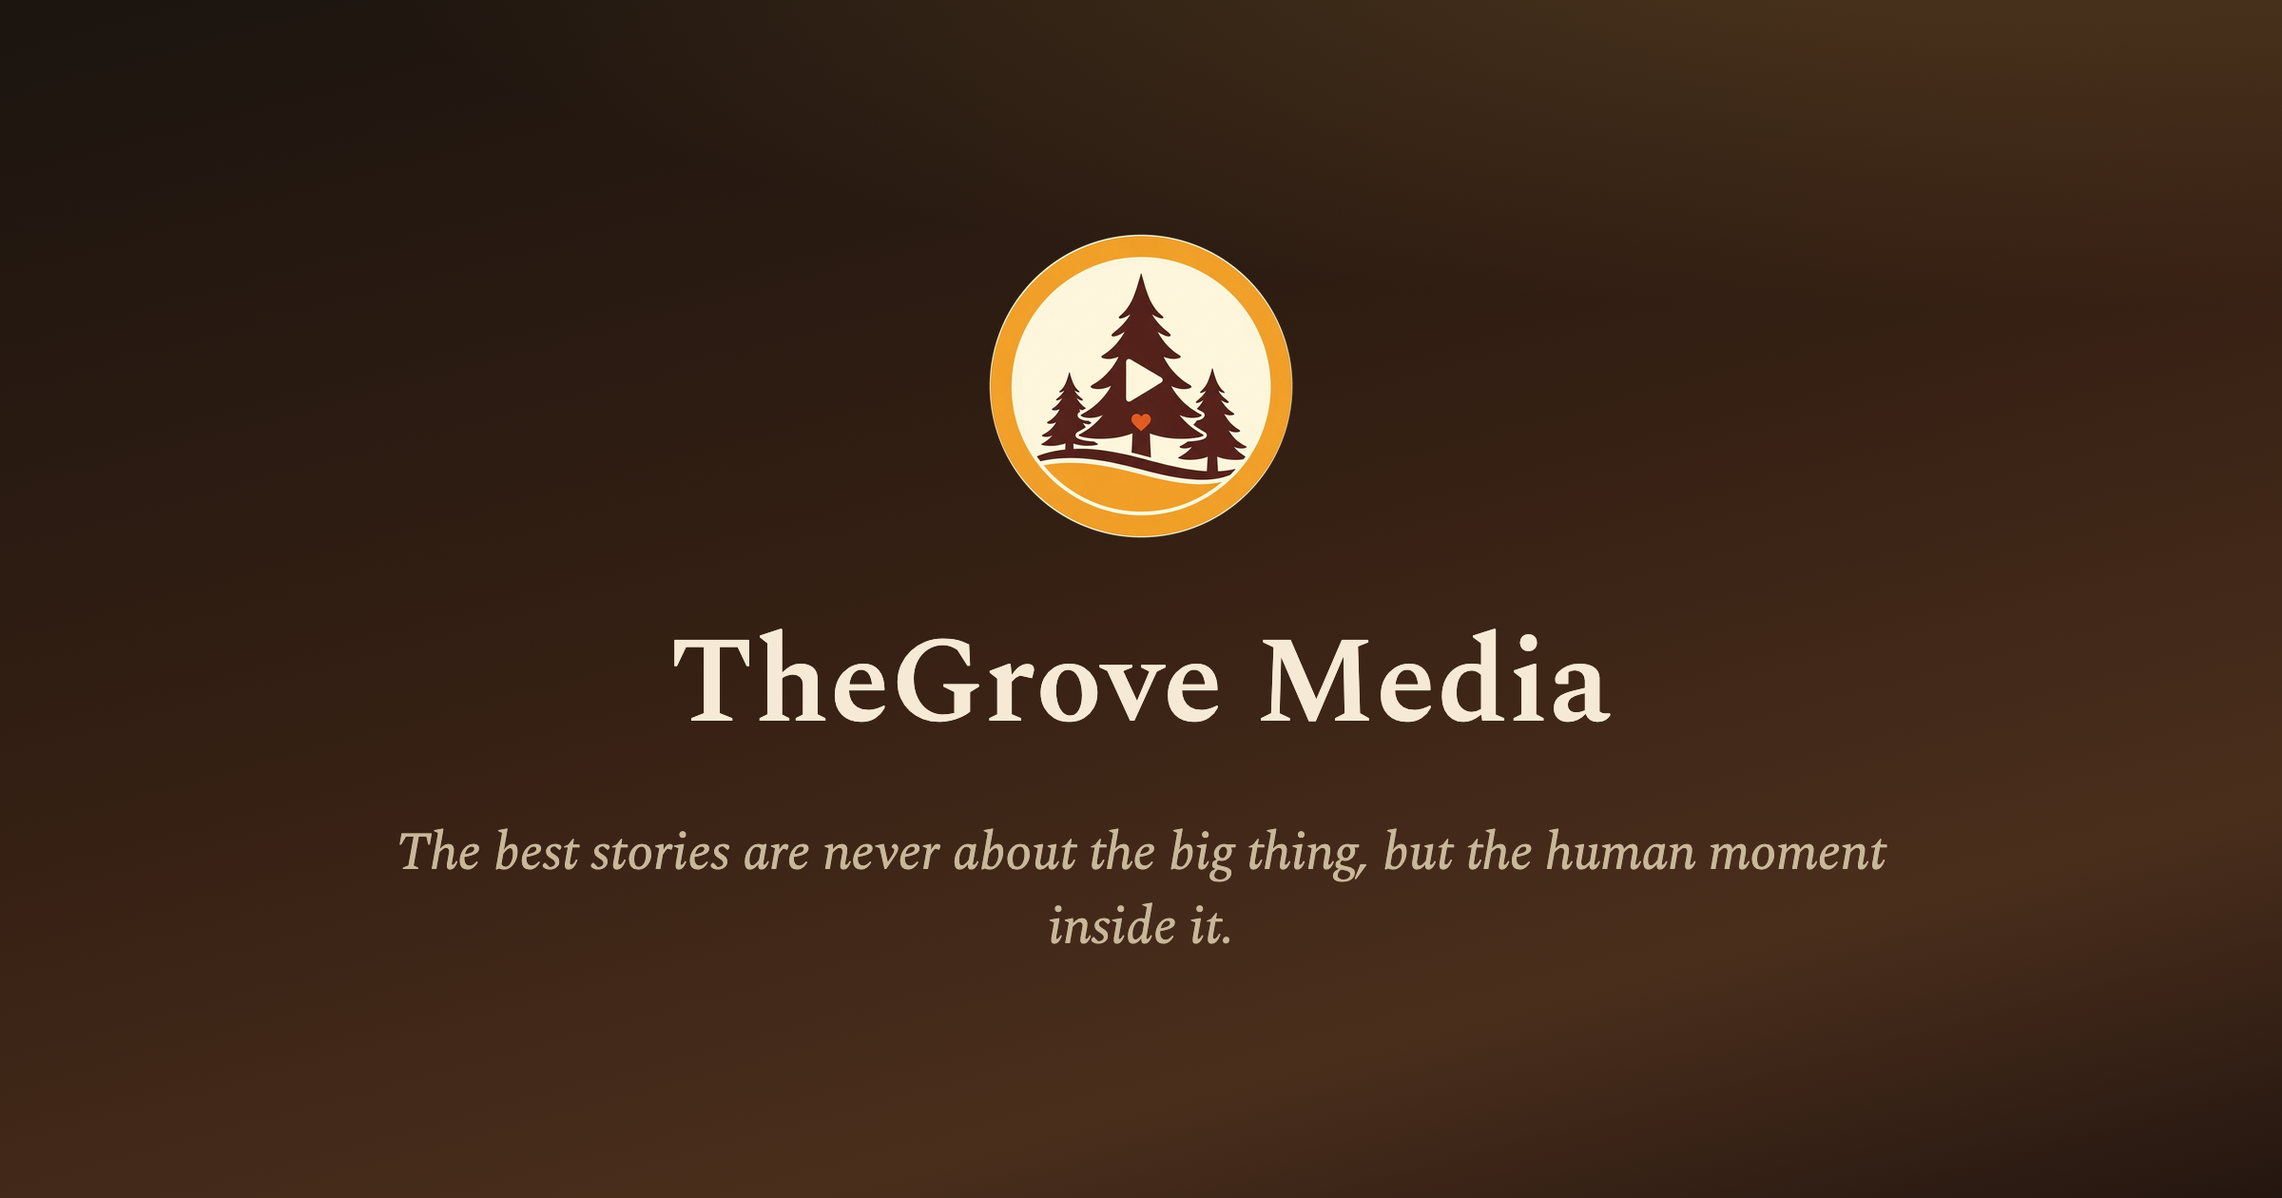
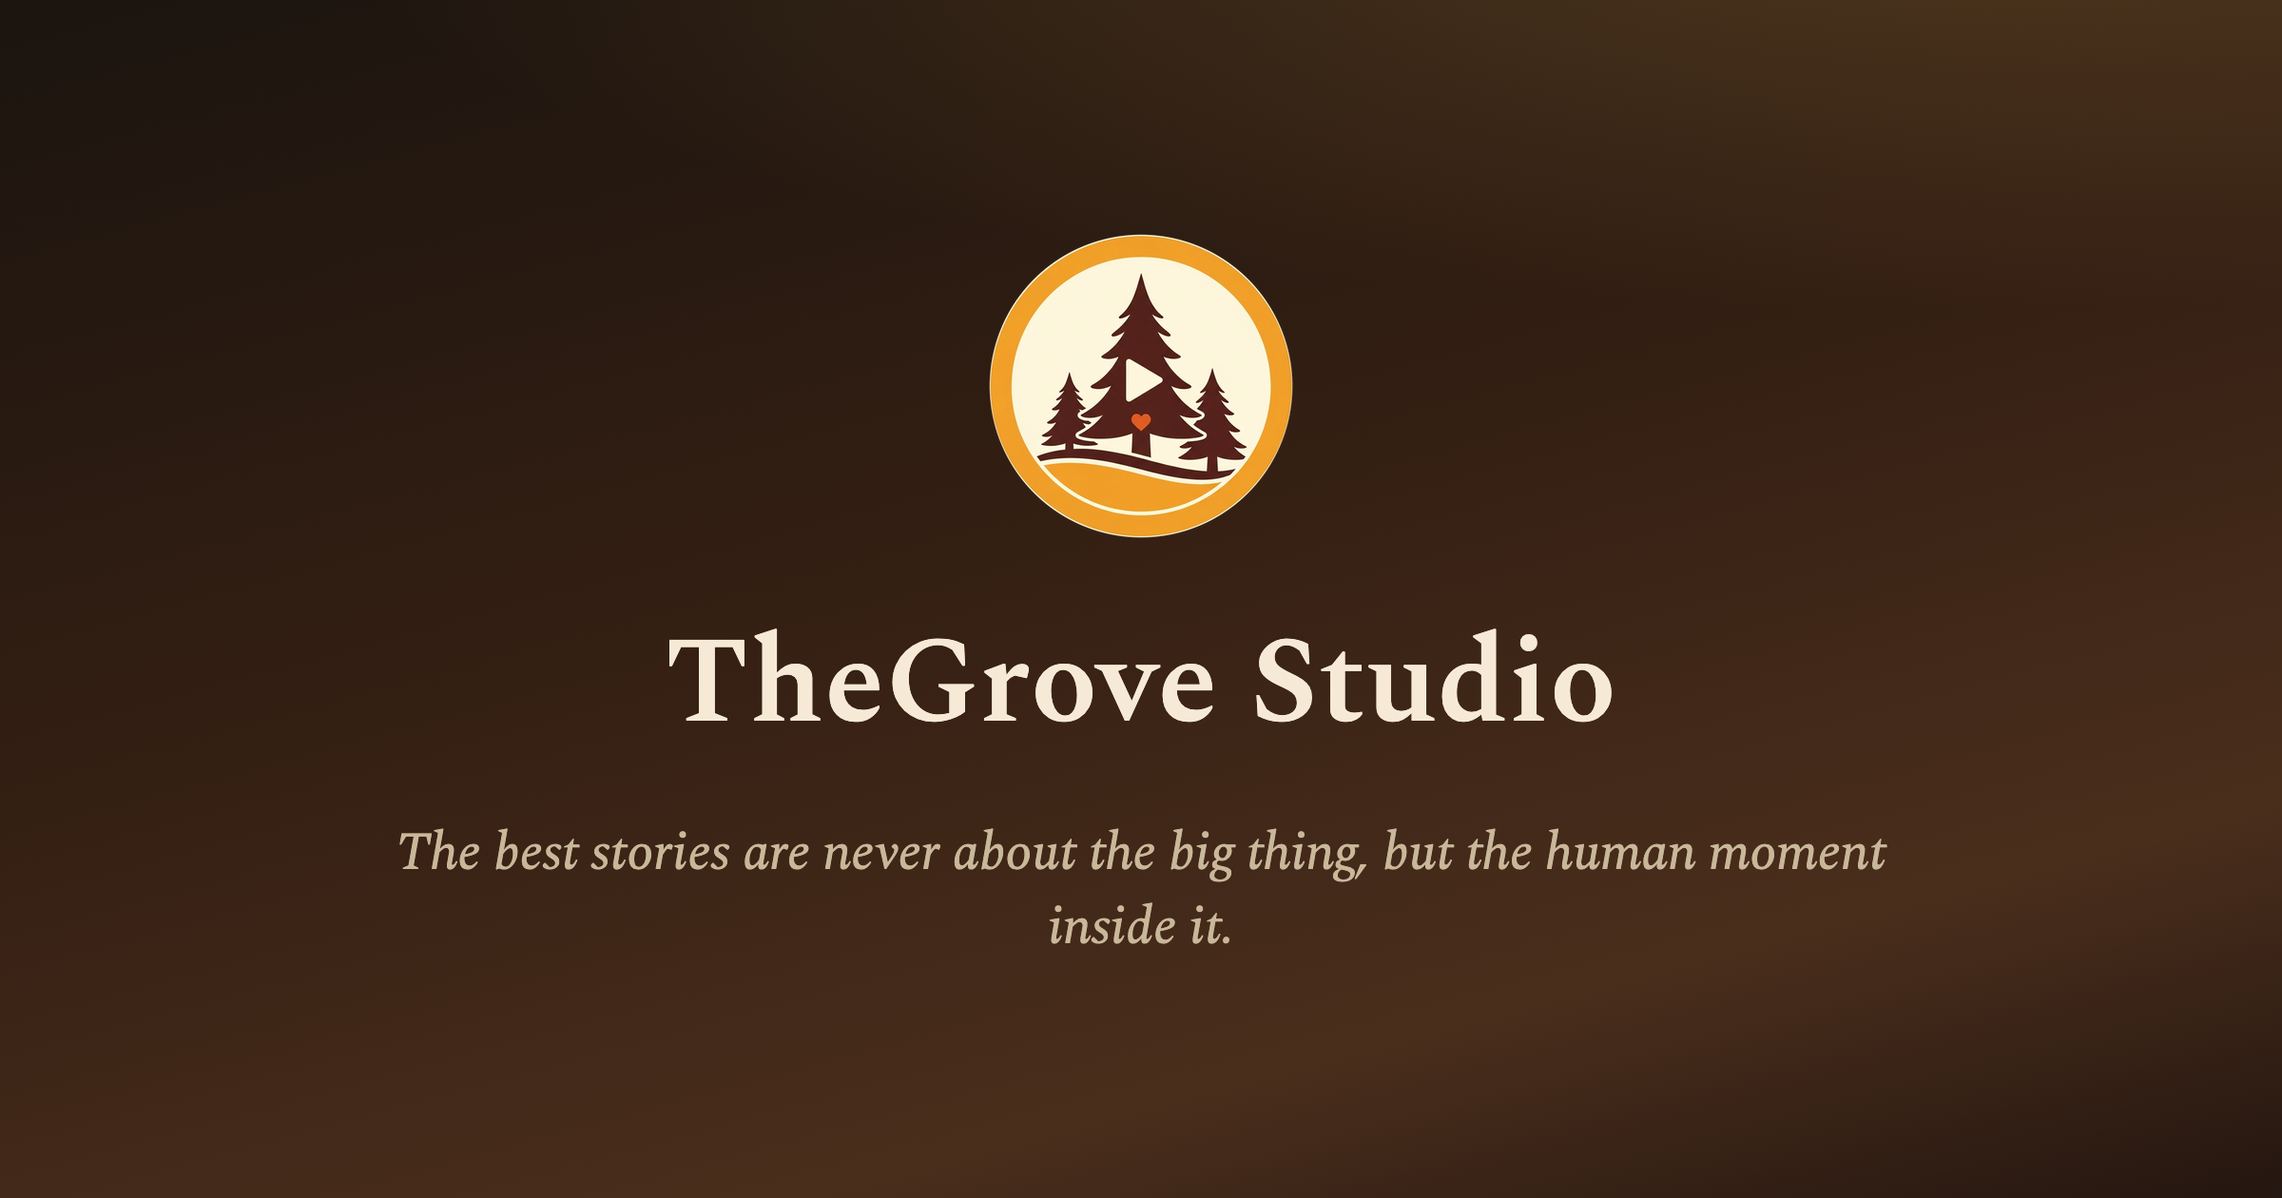
feat: rename displayed brand to TheGrove Studio

Changed region(s): [[0.2812, 0.5262, 0.625, 0.619], [0.6562, 0.5571, 0.7188, 0.619]]

diff --git a/index.html b/index.html
@@ -8,18 +8,18 @@
 <html lang="en">
 <head>
 <meta charset="UTF-8">
-<title>TheGrove Media</title>
+<title>TheGrove Studio</title>
 <link rel="canonical" href="https://thegrove.media/">
-<meta name="description" content="TheGrove Media - Human in the Loop, The Quill, and The Little Feather.">
+<meta name="description" content="TheGrove Studio - The Quill, The Little Feather, and Human in the Loop.">
 <meta name="viewport" content="width=device-width, initial-scale=1">
-<meta property="og:title" content="TheGrove Media">
-<meta property="og:description" content="TheGrove Media - Human in the Loop, The Quill, and The Little Feather.">
+<meta property="og:title" content="TheGrove Studio">
+<meta property="og:description" content="TheGrove Studio - The Quill, The Little Feather, and Human in the Loop.">
 <meta property="og:image" content="https://thegrove.media/assets/og-image.png">
 <meta property="og:url" content="https://thegrove.media/">
 <meta property="og:type" content="website">
 <meta name="twitter:card" content="summary_large_image">
 <meta name="twitter:image" content="https://thegrove.media/assets/og-image.png">
[2 lines of base64/hex data omitted]
 <link rel="icon" type="image/png" href="assets/thegrove-media-badge.png">
 <link rel="preconnect" href="https://fonts.googleapis.com">
 <link rel="preconnect" href="https://fonts.gstatic.com" crossorigin>
@@ -33,8 +33,8 @@
 <div class="page">
   <header class="masthead">
     <div class="masthead-inner">
-      <img class="badge" src="assets/thegrove-media-badge.png" alt="TheGrove Media studio badge" width="84" height="84" loading="eager">
-      <h1 class="wordmark">TheGrove Media</h1>
+      <img class="badge" src="assets/thegrove-media-badge.png" alt="TheGrove Studio studio badge" width="84" height="84" loading="eager">
+      <h1 class="wordmark">TheGrove Studio</h1>
       <p class="studio-tagline">The best stories are never about the big thing, but the human moment inside it.</p>
       <nav class="masthead-nav" aria-label="Shows on this page">
         <a href="#the-quill">The Quill</a><span aria-hidden="true">&middot;</span><a href="#the-little-feather">The Little Feather</a><span aria-hidden="true">&middot;</span><a href="#human-in-the-loop">Human in the Loop</a><span aria-hidden="true">&middot;</span><a href="#about">About</a>
@@ -65,7 +65,7 @@
             <div class="chapter-main">
               <label for="disc-the-quill" class="opener">
                 <span class="mark-wrap" aria-hidden="true"><img class="mark" src="assets/marks/quill-circle.png" alt="" width="116" height="116" loading="lazy"></span>
-                <span class="eyebrow">Produced by TheGrove Media</span>
+                <span class="eyebrow">Produced by TheGrove Studio</span>
                 <span class="opener-text">
                   <span class="tile-name" role="heading" aria-level="2">The Quill</span>
                   <span class="tile-tagline">True Stories, Human-Written.</span>
@@ -111,7 +111,7 @@
             <div class="chapter-main">
               <label for="disc-the-little-feather" class="opener">
                 <span class="mark-wrap" aria-hidden="true"><img class="mark" src="assets/marks/tlf-asis.png" alt="" width="116" height="116" loading="lazy"></span>
-                <span class="eyebrow">Produced by TheGrove Media</span>
+                <span class="eyebrow">Produced by TheGrove Studio</span>
                 <span class="opener-text">
                   <span class="tile-name" role="heading" aria-level="2">The Little Feather</span>
                   <span class="tile-tagline">Kids Stories for Big Feelings</span>
@@ -156,7 +156,7 @@
             <div class="chapter-main">
               <label for="disc-human-in-the-loop" class="opener">
                 <span class="mark-wrap" aria-hidden="true"><img class="mark" src="assets/marks/hitl-circle.png" alt="" width="116" height="116" loading="lazy"></span>
-                <span class="eyebrow">Produced by TheGrove Media</span>
+                <span class="eyebrow">Produced by TheGrove Studio</span>
                 <span class="opener-text">
                   <span class="tile-name" role="heading" aria-level="2">Human in the Loop</span>
                   <span class="tile-tagline">Real people. Real tools. No retakes.</span>
@@ -208,10 +208,10 @@
     <section id="about" class="about-section">
       <div class="about-card">
         <div class="colophon small" aria-hidden="true"><span class="rule"></span><span class="dot"></span><span class="rule"></span></div>
-        <p class="wordmark small">TheGrove Media</p>
-        <h2 class="sr-only">About TheGrove Media</h2>
+        <p class="wordmark small">TheGrove Studio</p>
+        <h2 class="sr-only">About TheGrove Studio</h2>
         <img class="portrait" src="assets/chris-shanku.webp" alt="Portrait of Chris Shanku" width="128" height="128" loading="lazy">
-        <p class="about-copy">I&#x27;m Chris Shanku. I build real systems for a living and tell true stories on stage - I won a Moth StorySLAM with <a href="https://youtu.be/2Lj3Ujrk2Ys" target="_blank" rel="noopener noreferrer">this one</a>. Technology is best when it enables human connection - period. TheGrove Media is the studio behind Human in the Loop, The Quill, and The Little Feather, a project of TheGrove AI, LLC. More about me at <a href="https://shanku.net" target="_blank" rel="noopener noreferrer">shanku.net</a>, more about the company at <a href="https://thegrove.llc" target="_blank" rel="noopener noreferrer">thegrove.llc</a>.</p>
+        <p class="about-copy">I&#x27;m Chris Shanku. I build real systems for a living and tell true stories on stage - I won a Moth StorySLAM with <a href="https://youtu.be/2Lj3Ujrk2Ys" target="_blank" rel="noopener noreferrer">this one</a>. Technology is best when it enables human connection - period. TheGrove Studio is the home of Human in the Loop, The Quill, and The Little Feather, a project of TheGrove AI, LLC. More about me at <a href="https://shanku.net" target="_blank" rel="noopener noreferrer">shanku.net</a>, more about the company at <a href="https://thegrove.llc" target="_blank" rel="noopener noreferrer">thegrove.llc</a>.</p>
       </div>
     </section>
   </main>

diff --git a/css/site.css b/css/site.css
@@ -1,5 +1,5 @@
 /* =====================================================================
-   TheGrove Media - CHOSEN DIRECTION
+   TheGrove Studio - CHOSEN DIRECTION
    Direction A's editorial bands (tablet/desktop, >=768px) blended with
    Direction C's home-screen tiles (mobile, <768px) as ONE responsive
    page, ONE markup tree. No JavaScript anywhere on this page - the

diff --git a/scripts/og_image.html b/scripts/og_image.html
@@ -16,6 +16,6 @@
 </style></head>
 <body>
   <img src="../assets/thegrove-media-badge.png" alt="">
-  <h1>TheGrove Media</h1>
+  <h1>TheGrove Studio</h1>
   <p>The best stories are never about the big thing, but the human moment inside it.</p>
 </body></html>

diff --git a/scripts/tests/test_render_show.py b/scripts/tests/test_render_show.py
@@ -11,6 +11,7 @@ ICONS = json.loads((ROOT / "content" / "icons.json").read_text())
 QUILL = next(s for s in CHANNELS["shows"] if s["id"] == "the-quill")
 TLF = next(s for s in CHANNELS["shows"] if s["id"] == "the-little-feather")
 HITL = next(s for s in CHANNELS["shows"] if s["id"] == "human-in-the-loop")
+STUDIO_NAME = CHANNELS["studio"]["name"]
 
 
 class TestRenderIconSprite(unittest.TestCase):
@@ -22,7 +23,7 @@ class TestRenderIconSprite(unittest.TestCase):
 
 class TestRenderShow(unittest.TestCase):
     def test_section_id_and_field_accent_custom_properties(self):
-        out = render_show(QUILL, ICONS)
+        out = render_show(QUILL, ICONS, STUDIO_NAME)
         self.assertIn('id="the-quill"', out)
         self.assertIn("--field:#251E19", out)
         self.assertIn("--accent:#C2643A", out)
@@ -33,30 +34,30 @@ class TestRenderShow(unittest.TestCase):
         # "Verified Aug 4" line must not appear in output, at any breakpoint,
         # even though channels.json still carries the source/verified fields.
         for show in (QUILL, TLF, HITL):
-            out = render_show(show, ICONS)
+            out = render_show(show, ICONS, STUDIO_NAME)
             self.assertNotIn("Verified", out)
             self.assertNotIn("cadence-verified", out)
 
     def test_cadence_display_text_still_renders(self):
-        out = render_show(QUILL, ICONS)
+        out = render_show(QUILL, ICONS, STUDIO_NAME)
         self.assertIn("New stories every Sunday, Tuesday, and Friday.", out)
         self.assertIn("A new My Lost Chapters every month.", out)
 
     def test_extra_line_renders_only_when_present(self):
-        self.assertIn("My Lost Chapters is the exception", render_show(QUILL, ICONS))
-        self.assertNotIn("extra-line", render_show(TLF, ICONS))
+        self.assertIn("My Lost Chapters is the exception", render_show(QUILL, ICONS, STUDIO_NAME))
+        self.assertNotIn("extra-line", render_show(TLF, ICONS, STUDIO_NAME))
 
     def test_cohost_renders_only_for_hitl_with_buildwithsash_link(self):
-        hitl_out = render_show(HITL, ICONS)
+        hitl_out = render_show(HITL, ICONS, STUDIO_NAME)
         self.assertIn("cohost-credit", hitl_out)
         self.assertIn('href="https://buildwithsash.com"', hitl_out)
         self.assertNotIn("linkedin.com/in/shasmo", hitl_out)
-        self.assertNotIn("cohost-credit", render_show(QUILL, ICONS))
+        self.assertNotIn("cohost-credit", render_show(QUILL, ICONS, STUDIO_NAME))
 
     def test_lead_lines_render_only_for_hitl(self):
-        hitl_out = render_show(HITL, ICONS)
+        hitl_out = render_show(HITL, ICONS, STUDIO_NAME)
         self.assertIn("Two ex-Microsoft builders.", hitl_out)
-        self.assertNotIn("lead-lines", render_show(QUILL, ICONS))
+        self.assertNotIn("lead-lines", render_show(QUILL, ICONS, STUDIO_NAME))
 
     def test_listen_block_omitted_when_empty(self):
         # None of the three currently has an empty listen[], but the
@@ -64,24 +65,24 @@ class TestRenderShow(unittest.TestCase):
         # when listen is empty. Exercise it directly against the function.
         fake_show = dict(QUILL)
         fake_show["listen"] = []
-        out = render_show(fake_show, ICONS)
+        out = render_show(fake_show, ICONS, STUDIO_NAME)
         self.assertNotIn(">Listen<", out)
 
     def test_amazon_music_and_tunein_get_generic_icon_labels(self):
-        out = render_show(HITL, ICONS)
+        out = render_show(HITL, ICONS, STUDIO_NAME)
         self.assertIn("generic placeholder icon, not an official logo", out)
         self.assertIn("TuneIn (generic icon)", out)
         self.assertIn("Amazon Music (generic icon)", out)
 
     def test_watch_renders_as_text_links_not_icons(self):
-        out = render_show(HITL, ICONS)
+        out = render_show(HITL, ICONS, STUDIO_NAME)
         self.assertIn('<a href="https://www.youtube.com/@hitlstream"', out)
         self.assertIn("Episode Takeaways", out)
 
     def test_linkedin_is_not_labelled_a_placeholder(self):
         # LinkedIn carries a provenance `note` but IS an official mark. Keying
         # the placeholder disclosure off `note` mislabelled it. FOLD-1/FOLD-5.
-        out = render_show(HITL, ICONS)
+        out = render_show(HITL, ICONS, STUDIO_NAME)
         self.assertIn('title="LinkedIn"', out)
         self.assertNotIn("LinkedIn (generic icon)", out)
 
@@ -89,14 +90,14 @@ class TestRenderShow(unittest.TestCase):
         sprite = render_icon_sprite(ICONS)
         import re as _re
         for show in (QUILL, TLF, HITL):
-            for ref in _re.findall(r'<use href="#(icon-[a-z0-9-]+)">', render_show(show, ICONS)):
+            for ref in _re.findall(r'<use href="#(icon-[a-z0-9-]+)">', render_show(show, ICONS, STUDIO_NAME)):
                 self.assertIn(f'id="{ref}"', sprite, f"{ref} has no <symbol> in the sprite")
 
     def test_malformed_color_fails_loud(self):
         bad = dict(QUILL)
         bad["accent"] = '#fff" onload="alert(1)'
         with self.assertRaises(ValueError):
-            render_show(bad, ICONS)
+            render_show(bad, ICONS, STUDIO_NAME)
 
 
 if __name__ == "__main__":

diff --git a/scripts/render.py b/scripts/render.py
@@ -41,7 +41,15 @@ def build_hash():
     return h.hexdigest()
 
 
-ROLE_LABELS = {"produced": "Produced by TheGrove Media"}
+def role_label(role, studio_name):
+    """Build the eyebrow label for a show's role. Data-driven off `studio_name`
+    so a studio rename is a one-line content edit, not a code edit. Only the
+    "produced" role exists today - an unknown role must still raise loudly
+    rather than emit a blank eyebrow.
+    """
+    if role == "produced":
+        return f"Produced by {studio_name}"
+    raise ValueError(f"unknown show role {role!r}")
 
 
 def esc(s):
@@ -141,7 +149,7 @@ def render_latest_block(latest):
     return '<p class="latest-empty">New episodes will appear here.</p>'
 
 
-def render_show(show, icons):
+def render_show(show, icons, studio_name):
     validate_show(show)
     style = (
         f'--field:{show["field"]}; --ink:{show["ink"]}; --accent:{show["accent"]}; '
@@ -149,7 +157,7 @@ def render_show(show, icons):
         f'--display:\'{show["display"]}\',serif; --body-font:\'{show["body"]}\',sans-serif;'
     )
     show_id = esc(show["id"])
-    eyebrow = ROLE_LABELS[show["role"]]
+    eyebrow = role_label(show["role"], studio_name)
 
     lead_html = ""
     if show.get("lead"):
@@ -232,12 +240,12 @@ PAGE_HEAD = '''<!doctype html>
 <html lang="en">
 <head>
 <meta charset="UTF-8">
-<title>TheGrove Media</title>
+<title>{studio_name}</title>
 <link rel="canonical" href="https://thegrove.media/">
-<meta name="description" content="TheGrove Media - Human in the Loop, The Quill, and The Little Feather.">
+<meta name="description" content="{studio_name} - {show_list}.">
 <meta name="viewport" content="width=device-width, initial-scale=1">
-<meta property="og:title" content="TheGrove Media">
-<meta property="og:description" content="TheGrove Media - Human in the Loop, The Quill, and The Little Feather.">
+<meta property="og:title" content="{studio_name}">
+<meta property="og:description" content="{studio_name} - {show_list}.">
 <meta property="og:image" content="https://thegrove.media/assets/og-image.png">
 <meta property="og:url" content="https://thegrove.media/">
 <meta property="og:type" content="website">
@@ -260,6 +268,16 @@ PAGE_TAIL = '''
 '''
 
 
+def join_names(names):
+    """Oxford-comma join for the meta-description show list, so a fourth show
+    added to channels.json is reflected here with no code change."""
+    if len(names) == 1:
+        return names[0]
+    if len(names) == 2:
+        return f"{names[0]} and {names[1]}"
+    return ", ".join(names[:-1]) + f", and {names[-1]}"
+
+
 def render_masthead(studio, shows):
     nav_links = "".join(
         f'<a href="#{s["id"]}">{esc(s["name"])}</a><span aria-hidden="true">&middot;</span>'
@@ -267,7 +285,7 @@ def render_masthead(studio, shows):
     ) + '<a href="#about">About</a>'
     return f'''  <header class="masthead">
     <div class="masthead-inner">
-      <img class="badge" src="{esc(studio["badge"])}" alt="TheGrove Media studio badge" width="84" height="84" loading="eager">
+      <img class="badge" src="{esc(studio["badge"])}" alt="{esc(studio["name"])} studio badge" width="84" height="84" loading="eager">
       <h1 class="wordmark">{esc(studio["name"])}</h1>
       <p class="studio-tagline">{esc(studio["tagline"])}</p>
       <nav class="masthead-nav" aria-label="Shows on this page">
@@ -304,8 +322,13 @@ def render_page(channels, icons):
     source_hash = build_hash()
     studio = channels["studio"]
     shows = sorted(channels["shows"], key=lambda s: s["order"])
+    show_list = join_names([s["name"] for s in shows])
 
-    parts = [PAGE_HEAD.format(source_hash=source_hash)]
+    parts = [PAGE_HEAD.format(
+        source_hash=source_hash,
+        studio_name=esc(studio["name"]),
+        show_list=esc(show_list),
+    )]
     parts.append(f'<a class="skip-link" href="#{shows[0]["id"]}">Skip to shows</a>')
     parts.append('<div class="page">')
     parts.append(render_masthead(studio, shows))
@@ -313,7 +336,7 @@ def render_page(channels, icons):
     parts.append(render_icon_sprite(icons))
     parts.append('    <div class="stack">')
     for show in shows:
-        parts.append(render_show(show, icons))
+        parts.append(render_show(show, icons, studio["name"]))
     parts.append('    </div>')
     parts.append(render_about(studio))
     parts.append('  </main>')

diff --git a/scripts/verify_render.py b/scripts/verify_render.py
@@ -82,7 +82,7 @@ def run_checks(base, remote, shot_dir):
             page.mouse.wheel(0, 20000)          # trigger loading="lazy" images
             page.wait_for_timeout(700)
 
-            pass_(f"{name}: page loads", page.title() == "TheGrove Media")
+            pass_(f"{name}: page loads", page.title() == "TheGrove Studio")
             pass_(f"{name}: three shows in DOM", page.locator("section.show").count() == 3)
             pass_(f"{name}: every subresource 2xx/3xx",
                   not bad_responses, "; ".join(bad_responses[:5]))

diff --git a/README.md b/README.md
@@ -1,6 +1,6 @@
 # thegrove.media
 
-Static landing page for TheGrove Media (Human in the Loop, The Quill, The Little Feather).
+Static landing page for TheGrove Studio (Human in the Loop, The Quill, The Little Feather).
 Zero backend, zero build step. Cloudflare Pages serves this repo's root directly.
 
 > **`index.html` is generated. Never edit it directly.** It is built from
